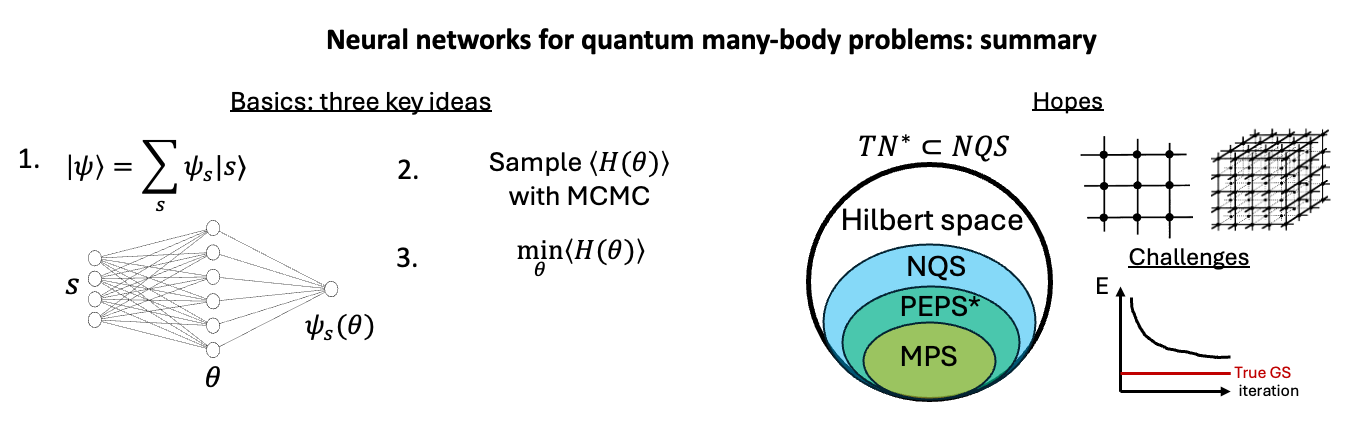
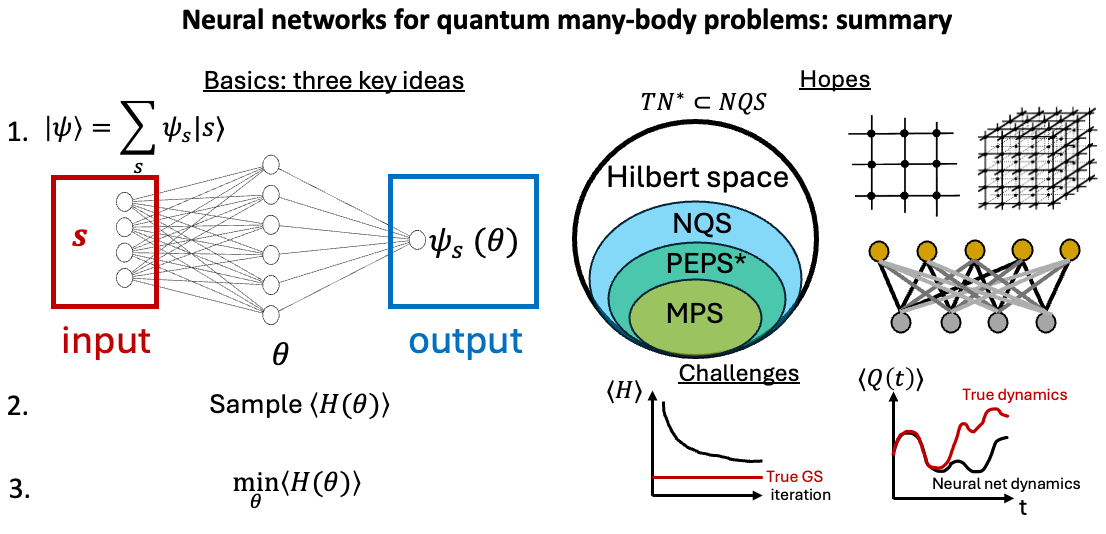
2ndblogpost_fig_edit

diff --git a/blog/_posts/2024-06-17-neural_quantum-intro.md b/blog/_posts/2024-06-17-neural_quantum-intro.md
@@ -205,7 +205,11 @@ Fig. 3: Expressivity of different many-body ansatze if one restricts to polynomi
 
 In particular, in contrast to tensor networks, there exists **volume law states**  <a href="#references">*[Deng+ (2017)]*</a> which may be represented by simple neural network architectures (such as restricted Boltzmann machines) with only a polynomial number of parameters. This makes neural networks to be, in principle, hopeful for representing ground states of some long-range interacting Hamiltonians or quantum states arising from long quench dynamics! What is the rough intuition behind efficient representability of the volume law? 
 
-Short answer: *non-locality* of connections within hidden units of the neural network (which contrasts with *local* connectivity of tensor networks). For instance <a href="#references">*[Deng+ (2017)]*</a> proves that for a simple example of a restricted Boltzmann machine architecture [^11], restricting connections between input layer and a hidden layer to $$\mathcal{O}(1)$$ neighbors upper bounds representable entanglement entropy to an area law. On the other hand, they prove that there exist examples of RBM states (with polynomial number of parameters) with long-range ($$\mathcal{O}(N)$$) connections which exhibit volume law. Thus, it is long-range connectivity which allows for efficient description of some volume law states[^12]. 
+Short answer: *non-locality* of connections within hidden units of the neural network (which contrasts with *local* connectivity of tensor networks). For instance <a href="#references">*[Deng+ (2017)]*</a> proves that for a simple example of a restricted Boltzmann machine architecture [^11], restricting connections between input layer and a hidden layer to $$\mathcal{O}(1)$$ neighbors upper bounds representable entanglement entropy to an area law. On the other hand, they prove that there exist examples of RBM states (with polynomial number of parameters) with long-range ($$\mathcal{O}(N)$$) connections which exhibit volume law - see Fig. 4 below. Thus, it is long-range connectivity which allows for efficient description of some volume law states[^12]. 
+
+<p style="text-align:center;"><img src="/assets/img/blog/blogpost_NQS_neural-net_volume_law.png" width="800" loading="lazy"/></p>
+Fig. 4: Volume-law in restricted Boltzmann machines requires long-range connectivity.  
+{:.figcaption}
 
 This is cool: neural quantum states are strictly more expressive than tensor networks, and their representability is limited by something different than entanglement thus making it applicable to cases where generic tensor networks are not! But then a natural question becomes: what physical quantity limit neural network expressivity on quantum states? I.e. what is an equivalent of "entanglement" for tensor networks or "magic" for efficient quantum circuit simulation? Well, as of mid 2024, no one seem to know exactly and this is an exciting open research direction! 
 
@@ -237,10 +241,10 @@ Okay, we have seen plenty of qualified hopes for neural quantum states. What are
 
 ### Local minima issue and ground states
 
-Well, for ground states of more complicated Hamiltonians, optimization often gets stuck in local minima (see Fig. 4). 
+Well, for ground states of more complicated Hamiltonians, optimization often gets stuck in local minima (see Fig. 5). 
 
 <p style="text-align:center;"><img src="/assets/img/blog/blogpost_NQS_neural-net_local_minima.png" width="800" loading="lazy"/></p>
-Fig. 4: Neural network optimization often gets stuck in local minima. 
+Fig. 5: Neural network optimization often gets stuck in local minima. 
 {:.figcaption}
 
 Unfortuantely, this is often true even as one ramps up the number of parameters in a neural network. This is not good! It means that in such cases we have no knob to tune for systematical improvement of accuracy... Recent work <a href="#references">*[Dash+ (2024)]*</a> links such "practical breakdown" of scalability to properties of a quantum geometric tensor i.e. matrix $$\mathbf{S}$$ we mentioned in the <a href="#energy-optimization">optimization section</a>: saturation of accuracy scalability corresponds to a saturation in the rank of the quantum geometric tensor. 
@@ -254,8 +258,13 @@ Practically, however, optimization getting trapped in local minima remains an im
 
 ### Challenges for time dynamics
 
-Okay, enough of problems for ground states! Let's briefly touch upon time dynamics. First a little background. It turns out, that finding time-evolution of quantum states might be found in a very similar neural quantum states paradigm which we described <a href="#neural-networks-for-quantum---basics">before</a>. We still represent wavefunction with a neural net, still evaluate observables of interest through sampling, and still optimize with quantum natural gradient, although with a slightly modified loss function. As it turns out, it yields the same updates for a quantum natural gradient as described before up to picking up an extra imaginary unit $$i$$ in front of the gradient. Next, the above approach of simulating time-dynamics with neural quantum states already has some successes e.g,. in achieving state-of-the-art (in some regimes) for simulating parameter sweep through a $$20 \times 20$$ square lattice transverse field Ising model <a href="#references">*[Schmitt+ (2022)]*</a>. Unfortunately, more broadly, time evolution with neural quantum states seems to be a more challenging problem than finding ground states. There are few reasons for this
+Okay, enough of problems for ground states! Let's briefly touch upon time dynamics. First a little background. It turns out, that finding time-evolution of quantum states might be found in a very similar neural quantum states paradigm which we described <a href="#neural-networks-for-quantum---basics">before</a>. We still represent wavefunction with a neural net, still evaluate observables of interest through sampling, and still optimize with quantum natural gradient, although with a slightly modified loss function. As it turns out, it yields the same updates for a quantum natural gradient as described before up to picking up an extra imaginary unit $$i$$ in front of the gradient. Next, the above approach of simulating time-dynamics with neural quantum states already has some successes e.g,. in achieving state-of-the-art (in some regimes) for simulating parameter sweep through a $$20 \times 20$$ square lattice transverse field Ising model <a href="#references">*[Schmitt+ (2022)]*</a>. Unfortunately, more broadly, time evolution with neural quantum states seems to be a more challenging problem than finding ground states. This manifests itself in e.g., inaccurate long-time observable evolution trajectories (see Fig. 6). 
 
+<p style="text-align:center;"><img src="/assets/img/blog/blogpost_NQS_neural-net_dynamics.png" width="300" loading="lazy"/></p>
+Fig. 6: Neural networks often struggle to capture long-term dynamics of an observable $$Q$$. 
+{:.figcaption}
+
+Why does it happen? To an extent this is to be expected: time dynamics is more challenging for tensor networks as well! Specific reasons for this in neural networks include: 
 1. Neccesity of complex phases in simulating dynamics (thus implying similar issues mentioned in the <a href="#no-sign-problem">sign-problem section</a>.).
 2. Regularization required for ill-conditioning of quantum geometric tensor $$\mathbf{S}$$ (mentioned in the <a href="#energy-optimization">optimization section</a>) diverts the ansatz away from the real physical trajectory[^19]. 
 3. Stochastic estimation of $$\mathbf{S}$$ matrix needs to be more accurate, and Monte Carlo estimations are prone to biased sampling issue <a href="#references">*[Sinibaldi+ (2023)]*</a>. This relates back to assuming $$\psi_s \neq 0 \ \forall s$$ we have made in derivation of Monte Carlo estimates <a href="#sampling-quantum-ground-state-energy">before</a>: it turns out whenever $$\psi_s \approx 0$$ while $$\partial_{\theta} \psi_s \neq 0$$, Monte Carlo estimates of $$\mathbf{S}$$ will be biased, rendering accurate real time dynamics tracking to be more difficult.
